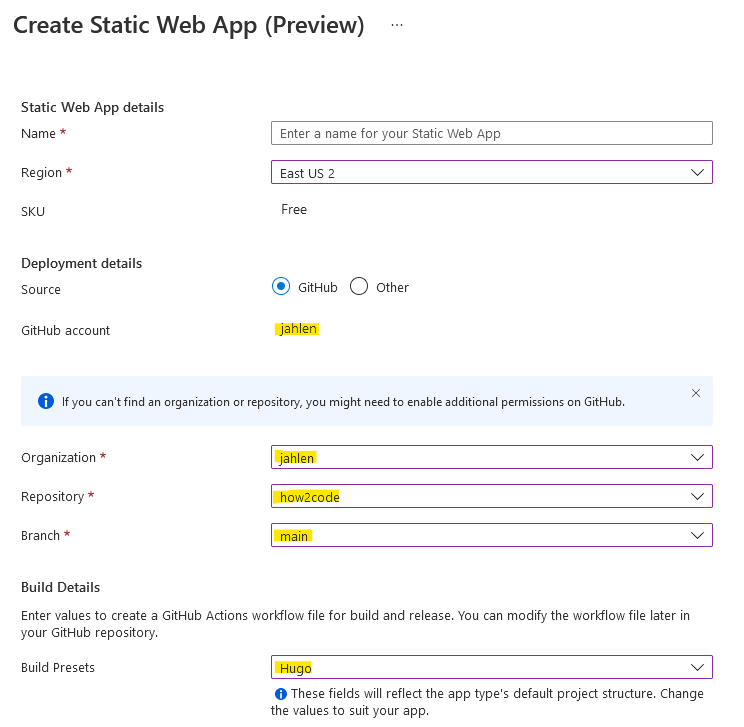
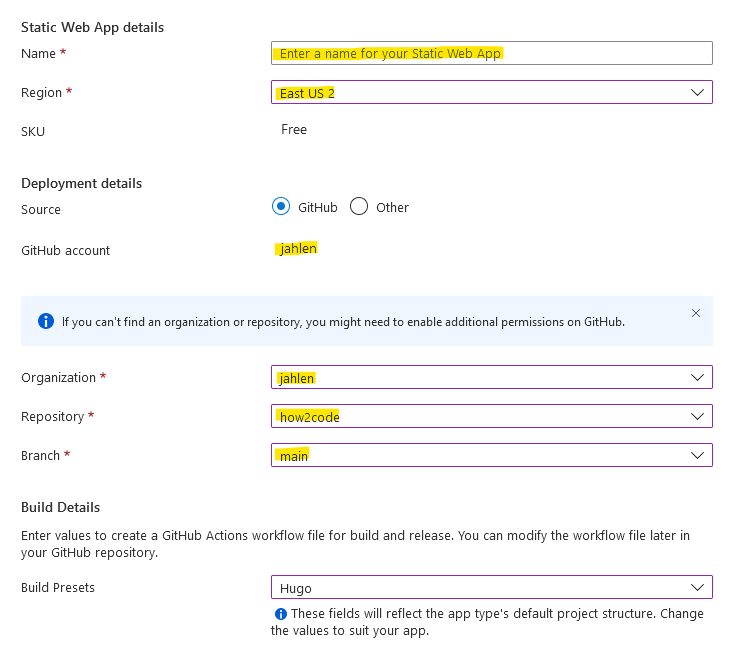
Updated readme

diff --git a/README.md b/README.md
@@ -10,7 +10,9 @@ Create a static website based on [Hugo](https://gohugo.io/), [Netlify CMS](https
 Create your own copy of this repository. Visit [this link](https://github.com/jahlen/hugo-azure-static-webapp-quickstart/generate) to create.
 
 ## 2. Create a Static Web App in the Azure Portal
-In the [Azure Portal](https://portal.azure.com/), search for Static Web App and click Create. Sign in with your GitHub account. Replace the sample values below with your own:
+In the [Azure Portal](https://portal.azure.com/), search for Static Web App and click Create. 
+
+Sign in with your GitHub account. Replace the yellow marked fields below with your own:
 
 ![Create Static Web App](readme-images/static-webapp-create.png)
 
@@ -20,5 +22,25 @@ Enter the following locations:
 
 Your Azure Static Web App should be created within a few minutes.
 
-## 3. 
-Edit the following files so they point to your *repo* and *domain name*
+## 2. Check your GitHub action
+
+Azure should have created a GitHub action in your repository. It should be found under *.github/workflows*. Check that it exists. Otherwise something went wrong during step 2.
+
+## 3. (Optional) Add a custom domain in Azure
+
+Only if you already have a domain that you wish to use, for example *www.mydomain.com*. 
+
+In the Azure Portal / Static Web App, go to **Custom domains** under Settings and add it. Follow the instructions for configuring your DNS-server.
+
+Wait a couple of minutes for your custom domain to be completely setup, including the HTTP certificate.
+
+## 4. Edit configuration files in your repo
+
+In your GitHub repository, edit the following files:
+
+* app/config.toml
+* app/config/_default/config.toml
+* app/config/_default/params.toml
+
+Make sure to point **baseurl** to your own website address. 
+
